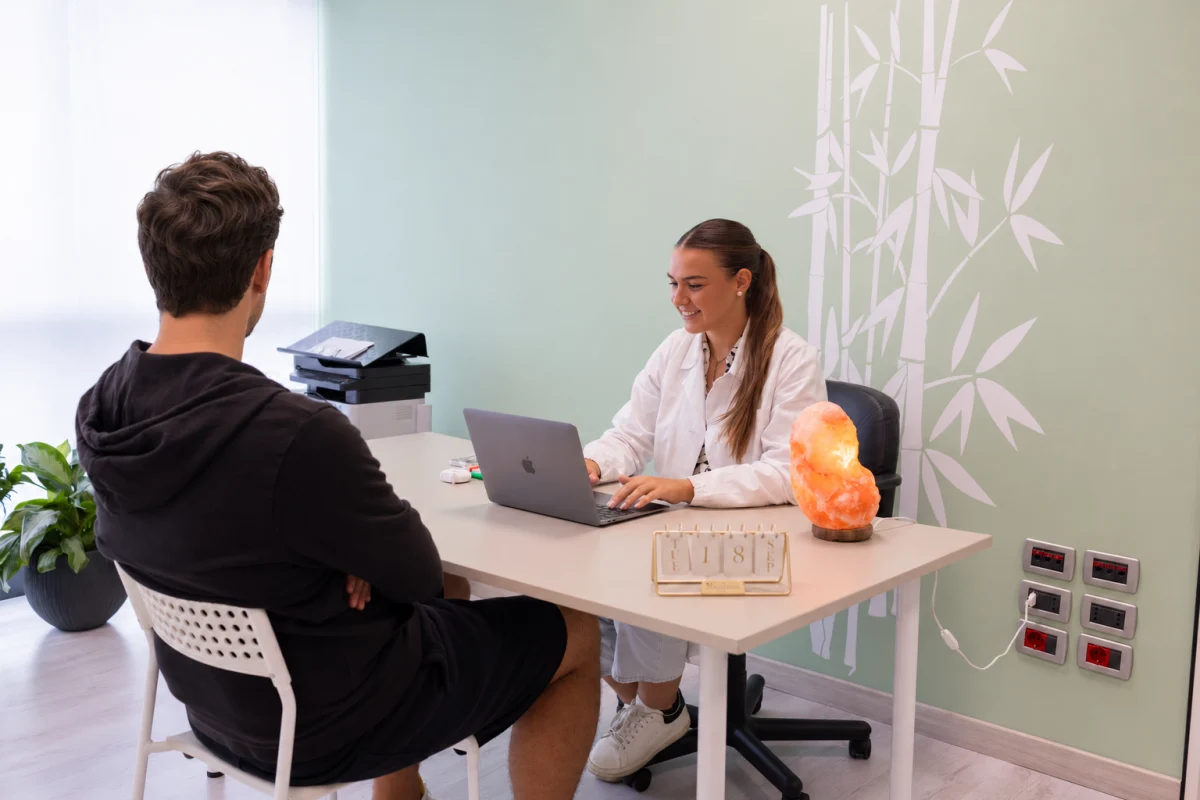
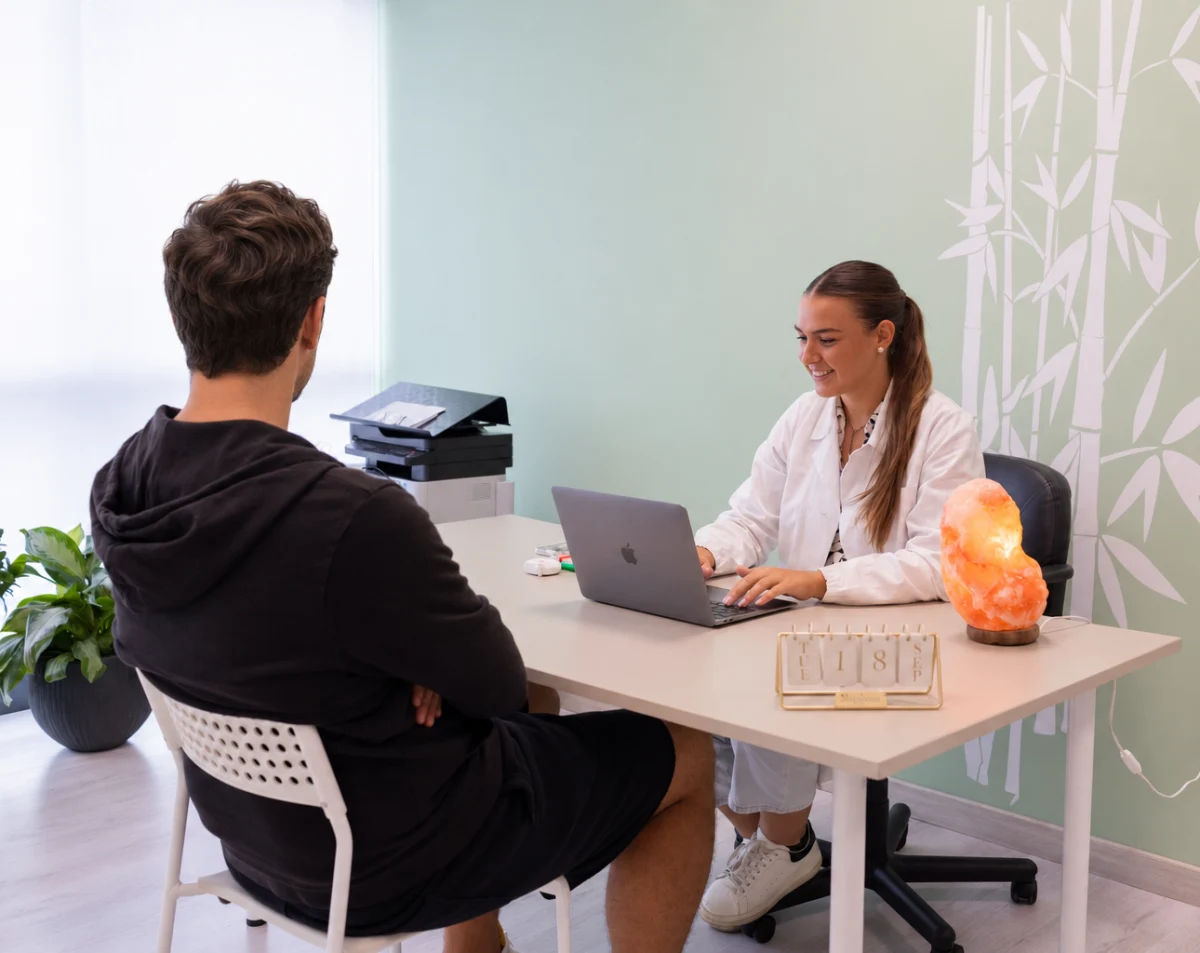
Update design specifications, add location details, and enhance contact page layout

diff --git a/src/data/site.ts b/src/data/site.ts
@@ -17,6 +17,10 @@ export const site = {
 	phoneDisplay: '+39 349 241 8586',
 	phoneHref: 'tel:+393492418586',
 	bookingUrl: 'https://form.jotform.com/240092101421033',
+	locations: [
+		{ name: 'Studio privato', address: 'Via Marosticana 126, 36031 Dueville', mapUrl: 'https://maps.app.goo.gl/jbK6tU2Wt99QprQWA' },
+		{ name: 'Studio Bambù', address: 'Via Cà del Luogo 6, 36050 Bolzano Vicentino', mapUrl: 'https://maps.app.goo.gl/1LAMbqMKqZKWYKnu9' },
+	],
 	portrait: {
 		src: '/images/noemi-profilo-trasparente.webp',
 		alt: 'Noemi Grigoletto, dietista',
@@ -35,7 +39,7 @@ export const site = {
 		},
 		{
 			label: 'Facebook',
-			href: 'https://www.facebook.com/profile.php?id=61555231928379',
+			href: 'https://www.facebook.com/dietistanoemigrigoletto/',
 		},
 	] satisfies SocialLink[],
 	resources: [

diff --git a/DESIGN.md b/DESIGN.md
@@ -49,7 +49,7 @@ The shared shell and internal routes use Open Sans, Simonetta and Droid Serif. O
 
 ## Layout
 
-The shared page shell uses fluid gutters and a maximum content width of 76rem. The hero and training sections become single-column layouts on narrow screens. The two service entry cards sit side by side. Reviews stack as expandable rows, with the first open on page load.
+The shared page shell uses fluid gutters and a maximum content width of 76rem. The hero and training sections become single-column layouts on narrow screens. The two service entry cards sit side by side. Reviews are equal square cards in a horizontal scroll list.
 
 ## Shapes
 
@@ -60,7 +60,7 @@ Cards use rounded corners and thin borders. Buttons have a pill silhouette. The 
 - The main booking action is a filled brown pill. Secondary actions use an outline.
 - The audience page groups its five topics into stacked expandable rows. The expanded mobile menu uses the same Lora italic as the homepage.
 - The service links are square, fully clickable cards with a heading, an icon and an arrow.
-- Review rows show the author and five gold stars in the summary and the full quotation when expanded.
+- Review cards show the name above five gold stars. Long quotes have a short excerpt and an «Altro…» disclosure.
 
 - The consultation process uses the same pill treatment for preparation and follow-up disclosures, with separate blush and sand tones.
 
